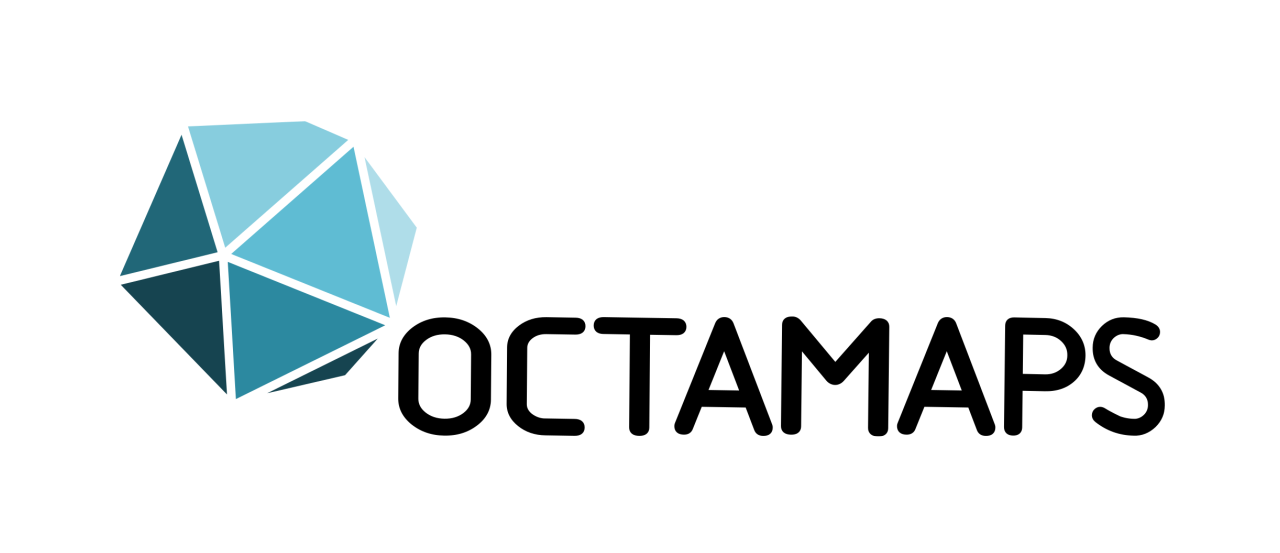
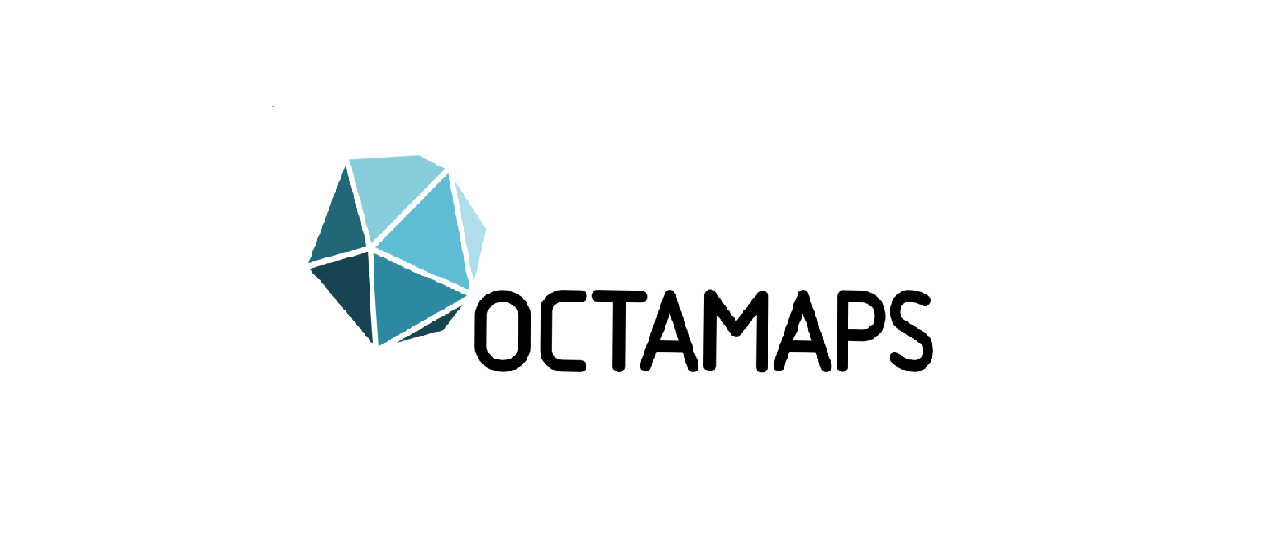
New Changes!
New Load Screen!
Link with PlayStore!
New Screen of:
"Contato"
"Sobre"

Changed region(s): [[0.0938, 0.2152, 0.9375, 0.7993]]

diff --git a/src/pages/Pesquisa1.js b/src/pages/Pesquisa1.js
@@ -1,8 +1,9 @@
 import React from 'react'
-import { StyleSheet, Text, View, Image,ImageBackground,FlatList,TextInput,TouchableOpacity  } from 'react-native'
+import { StyleSheet, Text, View, Image,ImageBackground,FlatList,TextInput,TouchableOpacity,TouchableHighlight  } from 'react-native'
 import Icon from 'react-native-vector-icons/Feather'
 import * as Animatable from 'react-native-animatable'
 import data from '../dados/octa_maps.json'
+import axios from 'axios'
 
 
 export default class Pesquisa1 extends React.Component {
@@ -17,14 +18,25 @@ export default class Pesquisa1 extends React.Component {
     }
   }
 
-  componentDidMount(){
-    this.setState({ loading: true })
+  componentDidMount(){ // Após todos os componentes estarem carregados
     setTimeout(() => {
-      const result = data.result
-      this.setState({
-        volatileData: [],
-        fullData: result,
-        //loading: false,
+      this.setState({ loading: true }) // Animação de carregamento rodando
+      axios
+      .get("http://octamaps.online/auth/jwt.php?sub=octaMapsAPP&name=admin") /// Url para conexão a API
+      .then(response => {
+        const { result } = response.data
+        this.setState({
+          volatileData: [],
+          fullData: result,
+          //loading: false, // Não está exibindo animação de carregamento
+        })
+      }).catch(error => {
+        console.log(error) // Caso dê erro, exibir erro
+        this.setState({
+          error: true,
+          loading: false, // Animação de Loading Finalizando
+        })
+
       })
     }, 1500)
   }
@@ -58,36 +70,34 @@ export default class Pesquisa1 extends React.Component {
   }
   render() {
     return (
-      
       <View style={styles.container}>
-      <ImageBackground source={require('../imagens/map.png')} style={{width: '100%', height: '100%'}}>    
-        <View style={{ height: 80, backgroundColor: 'transparent', justifyContent: 'center', paddingHorizontal: 5 }}>
-          <Animatable.View animation="lightSpeedIn" duration={4000} style={{ height: 50, backgroundColor: 'white', flexDirection: 'row', padding: 5, alignItems: 'center' }}>
-              <Icon.Button backgroundColor={'transparent'}color={'#b5b5b5'}size={40} name="search" />
-              <TextInput onChangeText={ value => this.search(value) }placeholder="Pesquisa" style={{ fontSize: 24, marginLeft: 15, flex: 1 }} />
-          </Animatable.View>
-        </View>
+       <TouchableHighlight onPress={() => this.props.navigation.goBack()}> 
 
-           
-        <Animatable.View animation="fadeIn" duration={5000}>  
-          
-          <FlatList
-              style={{ backgroundColor: 'rgba(255, 255, 255, 0.7)' }}
-              data={this.state.volatileData}
-              renderItem={({ item}) => 
-                <TouchableOpacity onPress={ this._onPressButton }> 
-                  <Text style={{ padding: 20, fontSize: 20 }}>
-                    { `${item.titulo_bloco}  ${'-'} ${'Piso '+item.numero_piso} ${'-'} ${item.titulo_sala} `}
-                  </Text>
-                </TouchableOpacity>
-                }
-              keyExtractor={(item, index) => index.toString()} 
-            />
+          <ImageBackground source={require('../imagens/map.png')} style={{width: '100%', height: '100%'}}>    
+            <View style={{ height: 80, backgroundColor: 'transparent', justifyContent: 'center', paddingHorizontal: 5 }}>
+              <Animatable.View animation="lightSpeedIn" duration={4000} style={{ height: 50, backgroundColor: 'white', flexDirection: 'row', padding: 5, alignItems: 'center' }}>
+                  <Icon.Button backgroundColor={'transparent'}color={'#b5b5b5'}size={40} name="search" />
+                  <TextInput onChangeText={ value => this.search(value) }placeholder="Pesquisa" style={{ fontSize: 24, marginLeft: 15, flex: 1 }} />
+              </Animatable.View>
+            </View>
 
-        </Animatable.View>
-     
-     </ImageBackground>
-
+               
+            <Animatable.View animation="fadeIn" duration={5000}>  
+              <FlatList
+                  style={{ backgroundColor: 'rgba(255, 255, 255, 0.7)' }}
+                  data={this.state.volatileData}
+                  renderItem={({ item}) => 
+                    <TouchableOpacity onPress={ this._onPressButton }> 
+                      <Text style={{ padding: 20, fontSize: 20 }}>
+                        { `${item.titulo_bloco}  ${'-'} ${'Piso '+item.numero_piso} ${'-'} ${item.titulo_sala} `}
+                      </Text>
+                    </TouchableOpacity>
+                    }
+                  keyExtractor={(item, index) => index.toString()} 
+              />
+            </Animatable.View>
+          </ImageBackground>
+       </TouchableHighlight>
       </View>
     );
   }

diff --git a/src/pages/Sobre.js b/src/pages/Sobre.js
@@ -1,5 +1,5 @@
 import React from 'react';
-import { StyleSheet, Text, View,Image} from 'react-native';
+import { StyleSheet, Text, View,ImageBackground} from 'react-native';
 import Icon from 'react-native-vector-icons/Feather';
 
 export default class Sobre extends React.Component {
@@ -8,28 +8,15 @@ export default class Sobre extends React.Component {
   render() {
     return (
       <View style={styles.container}>
+      
+        <ImageBackground style={{flex:1}} source={require('../imagens/Others/sobre.png')} >
           <View style={header.header}>
-            <Icon.Button backgroundColor={'transparent'}color={'#b5b5b5'}size={45} style ={styles.icon}name="arrow-left" onPress={() => this.props.navigation.goBack()}/>
-            <Icon.Button backgroundColor={'transparent'}color={'#b5b5b5'}size={40} style ={styles.icon}name="search" onPress={() => this.props.navigation.navigate('Pesquisa')} /> 
-          </View>
-        <Image style ={styles.img}source={require('../../assets/icon.png')} />
+              <Icon.Button backgroundColor={'transparent'}color={'#b5b5b5'}size={35} style ={styles.icon}name="menu" onPress={() => this.props.navigation.openDrawer()}/>
+              <Icon.Button backgroundColor={'transparent'}color={'#b5b5b5'}size={35} style ={styles.icon}name="search" onPress={() => this.props.navigation.navigate('Pesquisa')} /> 
+      </View>
 
-            <View style={styles.texto} >
-                 <Text style= {styles.text}> Aplicativo desenvolvido com recursos </Text>
-                 <Text style= {styles.text}> do projeto de Iniciação Científica para </Text>
-                 <Text style= {styles.text}>  o Ensino Médio do CNPq. Edital DPIEx 13/2018. </Text>
 
-                 <Text style= {{fontSize: 30, marginTop:'20%' }}> Participantes: </Text>
-
-                 <Text style= {styles.desenvolvedores,{marginTop:10,fontSize:20}}> Alexandre Torrezam </Text>
-                 <Text style= {styles.desenvolvedores}> Aroldo Goulart </Text>
-                 <Text style= {styles.desenvolvedores}> Teiji Watanabe </Text>
-                 <Text style= {styles.desenvolvedores}> Carlos Eduardo </Text>
-                 <Text style= {styles.desenvolvedores}> Custódio Gastão da Silva Júnior </Text>
-
-                 <Text style= {styles.desenvolvedores}> Vitoria Angel </Text>
-            </View>
-
+        </ImageBackground>
       </View>
     );
   }
@@ -40,23 +27,6 @@ const styles = StyleSheet.create({
     flex:1,
     backgroundColor: 'white'
   },
-  texto:{
-    justifyContent:'center',
-    alignItems: 'center'
-  },
-  text:{
-    fontSize: 20,
-    alignSelf: 'center' ,
-    marginLeft: '4%'
-  },
-  img:{
-    width: '80%',
-
-  },
-  desenvolvedores:{
-    fontSize: 20,
-
-  }
 });
 
 

diff --git a/src/pages/Principal.js b/src/pages/Principal.js
@@ -1,20 +1,46 @@
 import React from 'react';
-import { StyleSheet, Text, View,TouchableOpacity, Image,ImageBackground, StatusBar } from 'react-native';
+import { StyleSheet, Text, View,TouchableOpacity, Image,ImageBackground, StatusBar,ActivityIndicator } from 'react-native';
 import Icon from 'react-native-vector-icons/Feather';
 
 export default class Principal extends React.Component {
+  constructor(props) {
+    super(props)
+    this.state={
+      showMe:true
+    }
+  }
 
+  onPress = () => {
+    this.setState({
+      count: this.state.count+10
+    })
+  }
 
+  componentWillMount(){
+    setTimeout(()=>{
+      this.setState({
+        showMe:false
+      })
+    },
+    6000)
+  }
 
   render() {
     return (
       <View style={{flex:1}}>
-        <ImageBackground source={require('../imagens/map.png')} style={{width: '100%', height: '100%'}}>
+        {
+          this.state.showMe ? //se for verdadeiro exibirá isso
+          <ImageBackground style={{width: '100%', height: '100%'}} source={require('../imagens/Others/load.png')} >  
+          <ActivityIndicator style={{marginTop: '120%'}} size="large" color='rgba(95, 188, 221, 1)'/>
+          </ImageBackground>
+
+          : //se for falso..
+          <ImageBackground source={require('../imagens/map.png')} style={{width: '100%', height: '100%'}}>
           <View style={header.header}>
               <Icon.Button backgroundColor={'transparent'}color={'#b5b5b5'}size={35} style ={styles.icon}name="menu" onPress={() => this.props.navigation.openDrawer()}/>
               <Icon.Button backgroundColor={'transparent'}color={'#b5b5b5'}size={35} style ={styles.icon}name="search" onPress={() => this.props.navigation.navigate('Pesquisa')} /> 
           </View>
-
+          
           <View style={{flex:1, alignItems: 'center',  flexDirection: 'column'}}>
             
               <TouchableOpacity style={bloco.Quadra} onPress={() => this.props.navigation.navigate('Quadra')} />
@@ -44,6 +70,10 @@ export default class Principal extends React.Component {
 
           </View>
         </ImageBackground>
+        }
+
+
+        
       </View>
     );
   }

diff --git a/src/pages/Construcao.js b/src/pages/Construcao.js
@@ -1,22 +1,42 @@
 import React from 'react';
-import { StyleSheet, Text, View, Image } from 'react-native';
+import { StyleSheet, Text, View, Image,Linking } from 'react-native';
 import Icon from 'react-native-vector-icons/Feather';
+import AppLink from 'react-native-app-link';
 
+var url = 'https://play.google.com/store/apps/details?id=projeto.ifmt'
+var appName = 'Octa.Maps'
+var appStoreId = '0'
+var appStoreLocale = 'us'
+var playStoreId = 'projeto.ifmt'
 export default class Sobre extends React.Component {
+
+
   voltar = () => {
     this.props.navigation.goBack();
   }
+
+
+  componentDidMount() {
+    AppLink.maybeOpenURL(url, { appName, appStoreId, appStoreLocale, playStoreId }).then(() => {
+  // do stuff
+})
+.catch((err) => {
+  // handle error
+});
+
+AppLink.openInStore({ appName, appStoreId, appStoreLocale, playStoreId }).then(() => {
+  // do stuff
+})
+.catch((err) => {
+  // handle error
+});   
+
+}
+
   render() {
     return (
       <View style={styles.container}>
-        <View style={header.header}>
-              <Icon.Button backgroundColor={'transparent'}color={'#b5b5b5'}size={45} style ={styles.icon}name="arrow-left" onPress={() => this.props.navigation.goBack()}/>
-              <Icon.Button backgroundColor={'transparent'}color={'#b5b5b5'}size={40} style ={styles.icon}name="search" onPress={() => this.props.navigation.navigate('Pesquisa')} /> 
-          </View>
-        <View style={{flex:1, alignItems: 'center', justifyContent:'center' }}>
-             <Image style = {styles.img}source={require('../usuarioLogo.jpg')} />
-             <Text style= {styles.a}>Tela em construção!</Text>
-        </View>
+        
       </View>
     );
   }

diff --git a/App.js b/App.js
@@ -21,20 +21,13 @@ import BlocoB from './src/pages/BlocoB';
 
 import Pesquisa from './src/pages/Pesquisa1';
 
-import Loading from './src/pages/Loading';
+import TestOnly from './src/pages/TestOnly';
 
 
 //Criação das telas do DrawerNavigator
 const menu = createDrawerNavigator({
-    Load: {
-      //Definindo a Tela exibida no novo componente 'HOME'
-      screen: Loading,
-      navigationOptions:{  
-        //Configuração para não exibir o bloco no DrawerNavigator
-        drawerLabel: () => null
-      }
-    },
     Home: {
+      //Definindo a Tela exibida no novo componente 'HOME'
       screen: Principal,
       navigationOptions:{
         drawerIcon: () => <Icon name='home'/>
@@ -121,7 +114,7 @@ const menu = createDrawerNavigator({
         <StatusBar hidden />
 
         <View style={styles.bloco1}>
-          <Image style={styles.img} source={require('./src/usuarioLogo.jpg')} />
+          <Image style={styles.img} source={require('./assets/icon.png')} />
           <Text style={styles.usuario}> Bem vindo ! </Text>
         </View> 
 

diff --git a/src/pages/Avalie.js b/src/pages/Avalie.js
@@ -10,16 +10,7 @@ export default class Avalie extends React.Component {
   render() {
     return (
       <View style={styles.container}>
-        <View style={header.header}>
-              <Icon.Button backgroundColor={'transparent'}color={'#b5b5b5'}size={45} style ={styles.icon}name="arrow-left" onPress={() => this.props.navigation.goBack()}/>
-              <Icon.Button backgroundColor={'transparent'}color={'#b5b5b5'}size={40} style ={styles.icon}name="search" onPress={() => this.props.navigation.navigate('Pesquisa')} /> 
-          </View>
-        <View style={{flex:1, alignItems: 'center', justifyContent:'center' }}>
-             
-
-
-
-        </View>
+        
       </View>
     );
   }

diff --git a/src/pages/TestOnly.js b/src/pages/TestOnly.js
@@ -1,0 +1,25 @@
+import React from 'react';
+import { StyleSheet, Text, View, Image,ImageBackground,ActivityIndicator,TouchableWithoutFeedback,Picker,ProgressBarAndroid,ToastAndroid,Platform} from 'react-native';
+  
+
+export default class App extends React.Component {
+  render() {
+    return (
+      <View style={styles.container}>
+        <Image
+          style={{width: 300, height: 200}}
+          source={{uri: 'https://media3.giphy.com/media/wWue0rCDOphOE/giphy.gif'}} />
+      </View>
+    );
+  } 
+}
+
+const styles = StyleSheet.create({
+  container: {
+    flex: 1,
+    alignItems: 'center',
+    justifyContent: 'center',
+    paddingTop: 4,
+    backgroundColor: '#ecf0f1',
+  },
+});

diff --git a/src/pages/Contato.js b/src/pages/Contato.js
@@ -2,6 +2,7 @@ import React from 'react';
 import { StyleSheet, Text, View,Image} from 'react-native';
 import Icon from 'react-native-vector-icons/Feather';
 
+
 export default class Sobre extends React.Component {
 
   
@@ -22,7 +23,7 @@ export default class Sobre extends React.Component {
                  <Text style= {styles.desenvolvedores,{marginTop:10,fontSize:20}}> octa.maps@gmail.com </Text>
                  
             </View>
-            <Image style ={styles.img}source={require('../usuarioLogo.jpg')} />
+            <Image style ={styles.img}source={require('../imagens/Others/simbolo.png')} />
 
       </View>
     );
